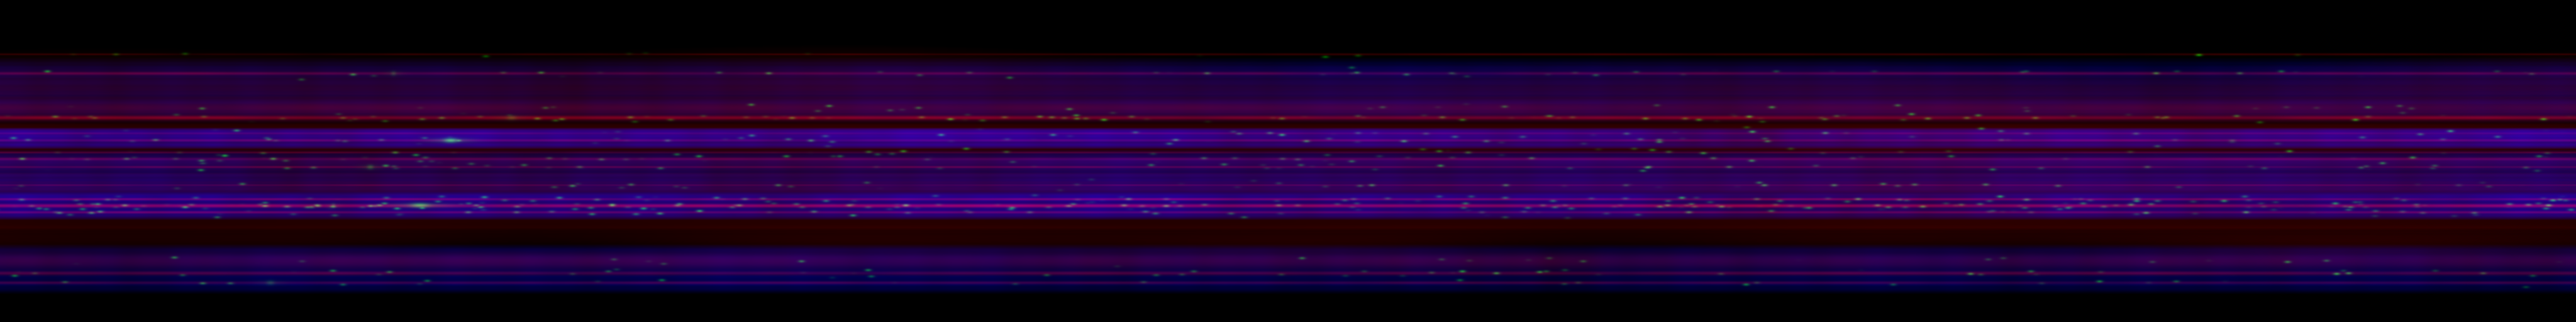
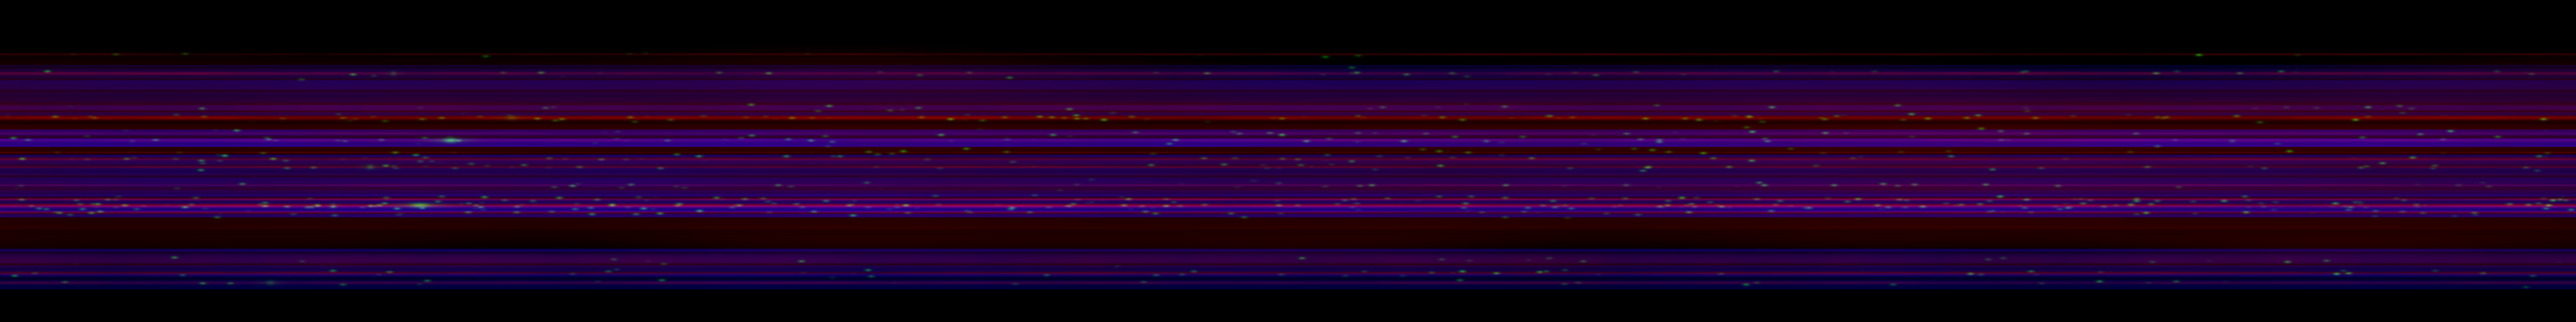
neptune: rise settles sooner so 5006 is calm, ring bodies as ringlets with gaps away from the hold, Triton night side at the sky level

diff --git a/src/stops/neptune/plan.ts b/src/stops/neptune/plan.ts
@@ -6,7 +6,7 @@ export const params: MoveParams = {
   spot: { x: 0.55, y: 0.52 },
   dive: { headingDeg: -70, altitude: 0.0331, back: 0.07, ahead: 0.14, bow: -0.22, rollDeg: -5, swoop: true, level: 0.5, surge: { glide: 0.14, rise: 60, fall: 2, swell: [0.3, 9, 1.2] } },
   terrain: { vfov: 30, forward: 0.42, rise: 0.33, side: -0.6, yawDeg: -5, pitchDeg: 0.6, entryHeight: 0.6, entryBack: 1.4, entryPitchDeg: 3, exitHeight: 0.45, exitForward: -2.6, exitPitchDeg: 0, exitDipDeg: 3.35, horizonDeg: 8.22, dipDeg: 12.41, rollDeg: 9.54 },
-  rise: { azimuthDeg: -26, elevationDeg: 17.5, distance: 5.2, offset: [-0.3, 0.1], driftSpeed: 0.1, rollDeg: 4, ahead: 0, hug: 1.2, settle: 3.75, level: true, pan: 0.3, from: 1.0 },
+  rise: { azimuthDeg: -26, elevationDeg: 17.5, distance: 5.2, offset: [-0.3, 0.1], driftSpeed: 0.1, rollDeg: 4, ahead: 0, hug: 1.2, settle: 4.75, level: true, pan: 0.3, from: 1.0 },
   travel: { turnDeg: 0, side: 1 },
   arrive: { swingDeg: -34, axis: [0.1, 1, 0.2], from: 0.25, offset: [0.5, 0.2] },
   light: { exposure: 1, skyExposure: 0.65, sunRadiusDeg: 0.14, sunGlare: 0.6, flare: 0 },

diff --git a/src/stops/neptune/look.ts b/src/stops/neptune/look.ts
@@ -35,7 +35,7 @@ export const triton = {
   terminator: [-0.02, 0.18] as [number, number],
   power: 0.7,
   spinDegPerSecond: 0.4,
-  rise: { sun: 0.4, ambient: [0.007, 0.017, 0.027] as [number, number, number], terminator: [-0.08, 0.42] as [number, number], power: 0.9, bump: 0.004 },
+  rise: { sun: 0.4, ambient: [0.0057, 0.0142, 0.021] as [number, number, number], terminator: [-0.08, 0.42] as [number, number], power: 0.9, bump: 0.012 },
 }
 
 export const ring = {
@@ -49,7 +49,7 @@ export const ring = {
   forwardPower: 5,
   bandUnit: [0.16, 1, 0.05] as [number, number, number],
   bandHold: [0.1, 0.1, 0] as [number, number, number],
-  bandAway: [0.45, 0.2, 1.6] as [number, number, number],
+  bandAway: [0.45, 0.2, 2.2] as [number, number, number],
   mapScale: 0.25,
   degPerSecond: 0.8,
 }

diff --git a/assets-src/neptune/ring/bands.py b/assets-src/neptune/ring/bands.py
@@ -45,7 +45,12 @@ BODIES = [
     (1.628, 1.662, 0.005, 0.0125),
     (1.690, 1.790, 0.016, 0.0036),
 ]
-BODY_GRAIN = (140, 0.55)
+BODY_GRAIN = (140, 0.25)
+BODY_EDGE = 0.0016
+RINGLET = (0.006, 0.02, 0.0009)
+GAP = (0.003, 0.007, 0.1, 0.4)
+RINGLET_LEVEL = (0.6, 1.45)
+BODY_ALONG = 0.16
 SHEET = (1.44, 1.76, 0.0045)
 GRAIN = (90, 0.7)
 SPARKS = (900, 0.05, 0.3)
@@ -109,10 +114,21 @@ def main(out):
         fine += rng.uniform(-1, 1) * np.exp(-((r - rng.uniform(R0, R1)) / rng.uniform(0.0015, 0.006)) ** 2)
     fine = fine / np.abs(fine).max()
     for lo_b, hi_b, soft, gain in BODIES:
-        shape = step(r, lo_b - soft, lo_b + soft) * (1 - step(r, hi_b - soft, hi_b + soft))
+        edge = min(soft, BODY_EDGE)
+        shape = step(r, lo_b - edge, lo_b + edge) * (1 - step(r, hi_b - edge, hi_b + edge))
         tilt = 0.8 + 0.4 * rng.uniform(0, 1) * (r - lo_b) / (hi_b - lo_b)
-        m = 1 + 0.35 * wave(rng, NA, [(1, 0.6), (2, 0.5), (5, 0.5), (11, 0.4), (29, 0.3), (67, 0.2)]) / 1.3
-        bodies += gain * (shape * tilt * (1 + BODY_GRAIN[1] * fine))[:, None] * np.maximum(m, 0.2)[None]
+        m = 1 + BODY_ALONG * wave(rng, NA, [(1, 0.6), (2, 0.5), (5, 0.5), (11, 0.4)]) / 1.3
+        stack = np.zeros(NR)
+        at = lo_b
+        e = RINGLET[2]
+        while at < hi_b:
+            w = rng.uniform(RINGLET[0], RINGLET[1])
+            stack += rng.uniform(*RINGLET_LEVEL) * step(r, at - e, at + e) * (1 - step(r, at + w - e, at + w + e))
+            at += w
+            g = rng.uniform(GAP[0], GAP[1])
+            stack += rng.uniform(GAP[2], GAP[3]) * step(r, at - e, at + e) * (1 - step(r, at + g - e, at + g + e))
+            at += g
+        bodies += gain * (shape * tilt * stack * (1 + BODY_GRAIN[1] * fine))[:, None] * np.maximum(m, 0.2)[None]
     taper = (step(r, R0, R0 + 0.04) * (1 - step(r, R1 - 0.04, R1)))[:, None]
     bodies = np.maximum(bodies * taper, 0)
     img = np.maximum(img * taper, 0)
